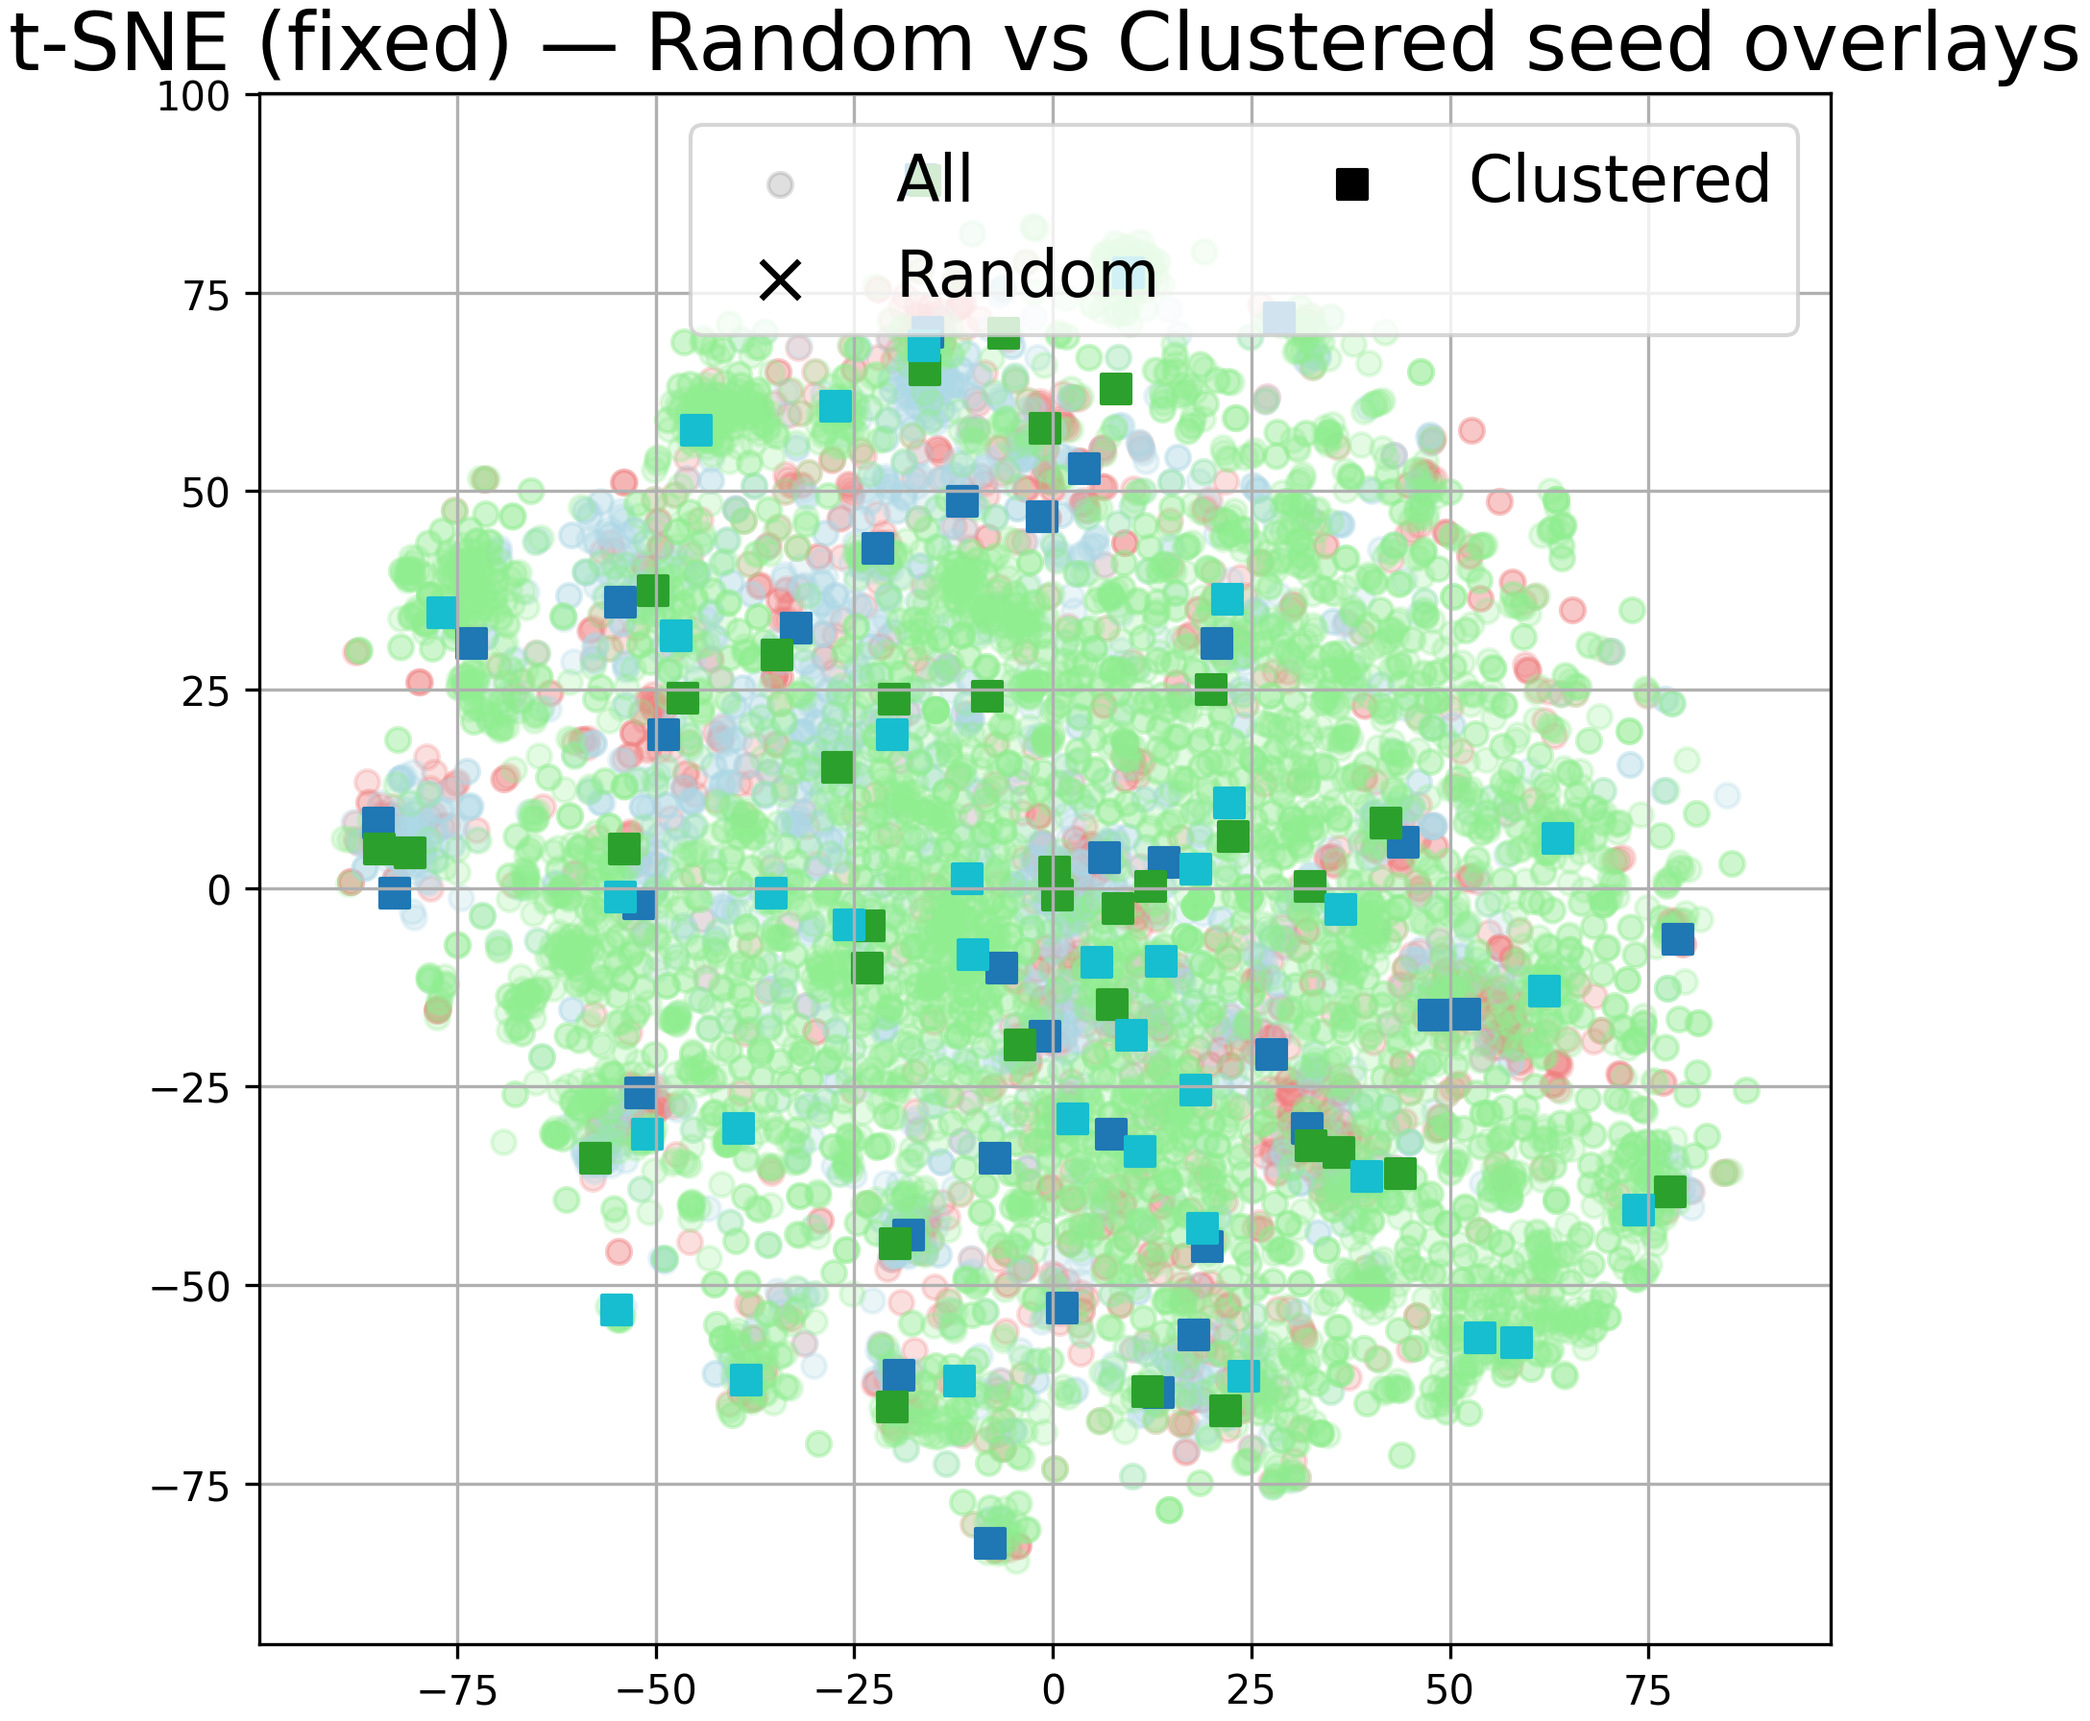
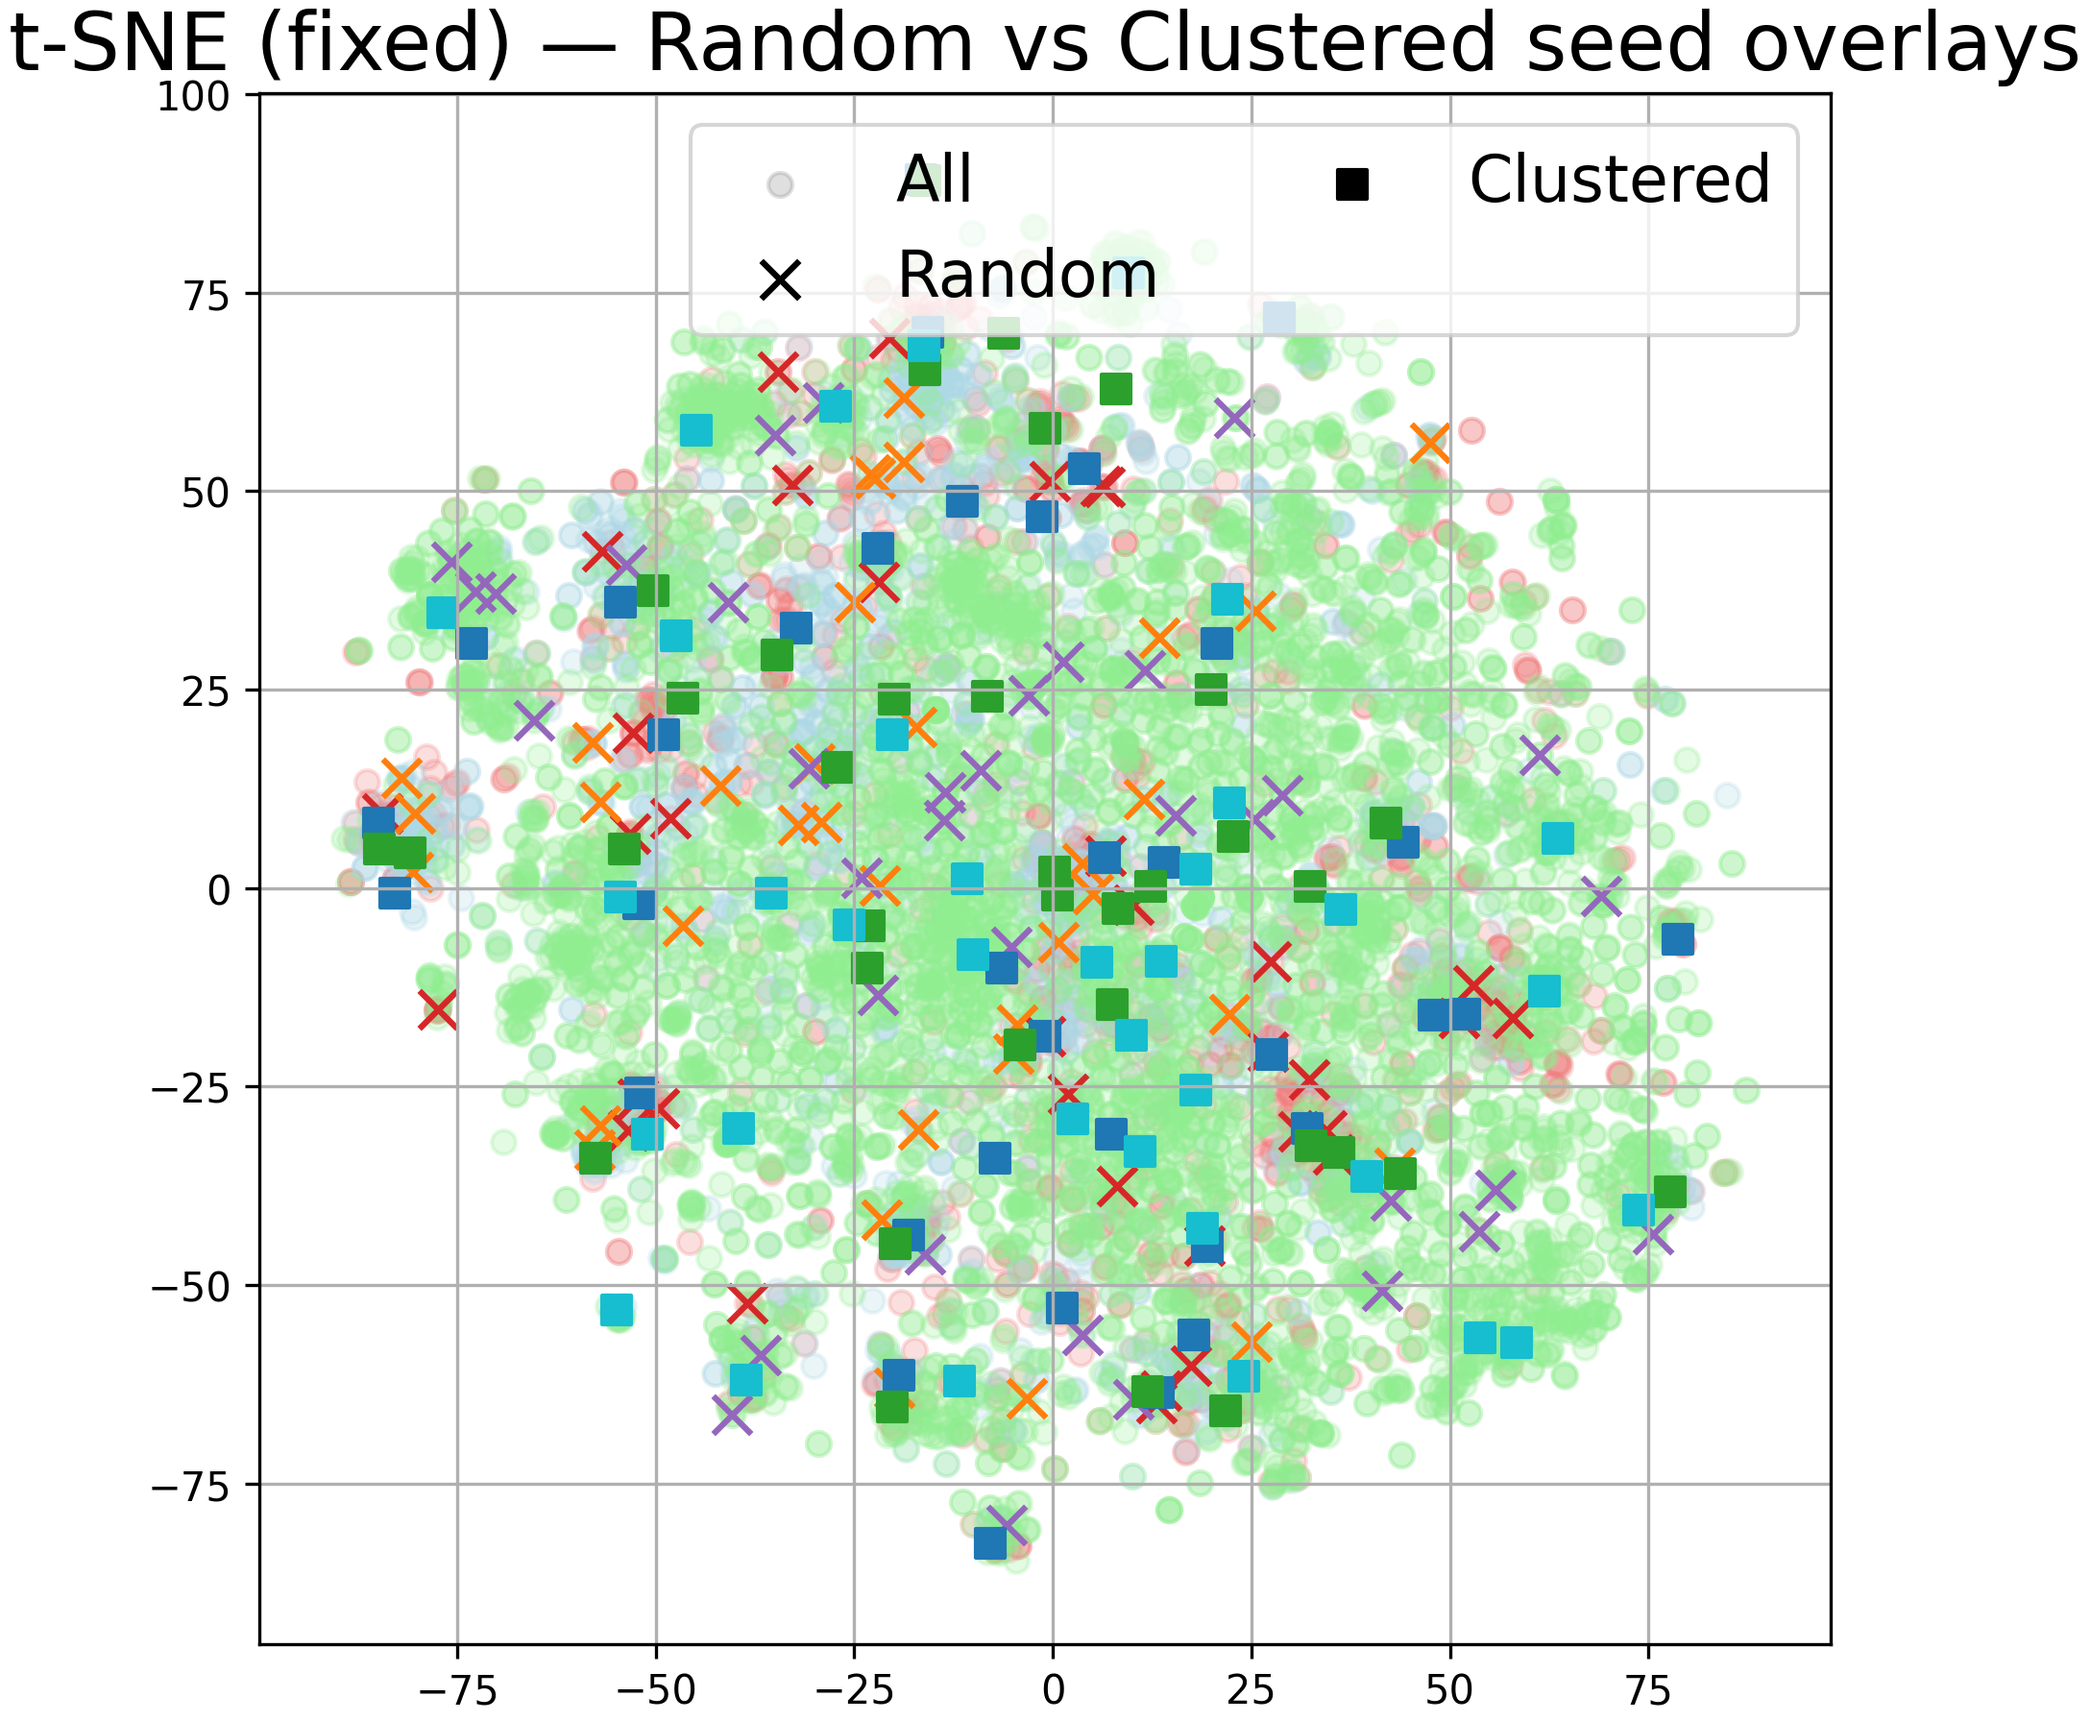
some change in outputs

diff --git a/scripts/evaluation/test_twitter_plot.py b/scripts/evaluation/test_twitter_plot.py
@@ -32,7 +32,7 @@ SEED_JSONL_CLUSTERED_CANDIDATES = [
     "./outputs/seed_twitter_data_clustered.jsonl"
 ]
 SEED_JSONL_RANDOM_CANDIDATES = [
-    "./outputs/seed_data_phrasebank_random.jsonl"
+    "./outputs/seed_data_twitter_random.jsonl"
 ]
 SYN_JSONL_CLUSTERED_CANDIDATES = [
     "./outputs/synthetic_twitter_data_seed_clustered.jsonl"
@@ -65,9 +65,17 @@ plt.rcParams.update({
 # COLORS / LABELS
 # ======================
 if DATA_SOURCE.lower().startswith("twit"):
-    LABEL_NAMES = {0: "Bearish", 1: "Neutral", 2: "Bullish"}
+    LABEL_NAMES = {
+        0: "Bearish",
+        1: "Bullish",
+        2: "Neutral"
+    }
 else:
-    LABEL_NAMES = {0: "Negative", 1: "Neutral", 2: "Positive"}
+    LABEL_NAMES = {
+        0: "Negative",
+        1: "Neutral",
+        2: "Positive"
+    }
 COLOR_ALL = {0: 'lightcoral', 1: 'lightblue', 2: 'lightgreen'}
 COLOR_SEED = {0: '#E41A1C', 1: '#377EB8', 2: '#4DAF4A'}
 COLOR_SEED_PC = {0: 'darkred', 1: 'darkblue', 2: 'darkgreen'}
@@ -141,25 +149,36 @@ def _warn_filtered(seeds_df, idx_list, name):
 # JSONL LOADING
 # ======================
 def _label_from_output(out: str):
-    # Accept multiple vocabularies
     m = {
-        # standard
-        "negative": 0, "neg": 0,
-        "neutral": 1,  "neu": 1,
-        "positive": 2, "pos": 2,
-        # capitalization variants
-        "Negative": 0, "Neutral": 1, "Positive": 2,
-        "Neg": 0, "Neu": 1, "Pos": 2,
-        # twitter-specific
-        "Bearish": 0, "bearish": 0,
-        "Neutral": 1, "neutral": 1,
-        "Bullish": 2, "bullish": 2,
+        # PhraseBank
+        "negative": 0,
+        "neg": 0,
+        "neutral": 1,
+        "neu": 1,
+        "positive": 2,
+        "pos": 2,
+
+        # Twitter
+        "bearish": 0,
+        "bullish": 1,
+        "neutral": 2,
     }
-    if out in m:
-        return m[out]
+
+    key = str(out).strip().lower()
+
+    if key in m:
+        return m[key]
+
     try:
-        val = int(out)
-        return {-1: 0, 0: 1, 1: 2, 2: 2}.get(val, None)
+        val = int(key)
+
+        return {
+            -1: 0,
+            0: 0,
+            1: 1,
+            2: 2
+        }.get(val, None)
+
     except Exception:
         return None
 
